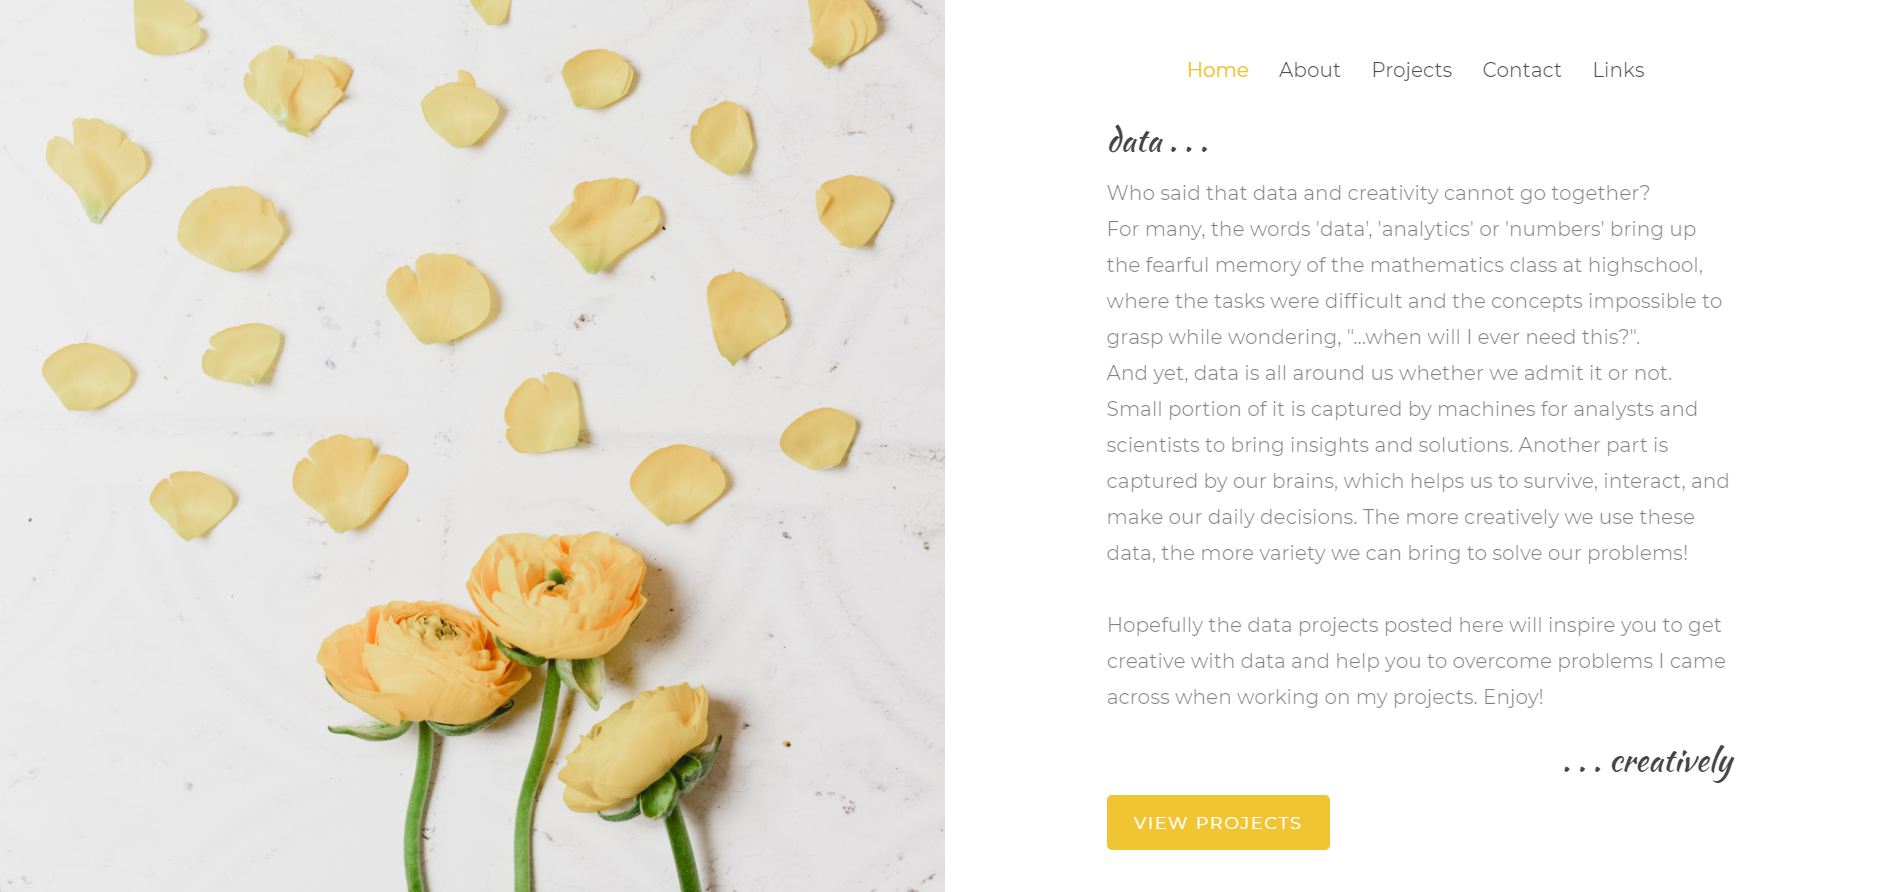
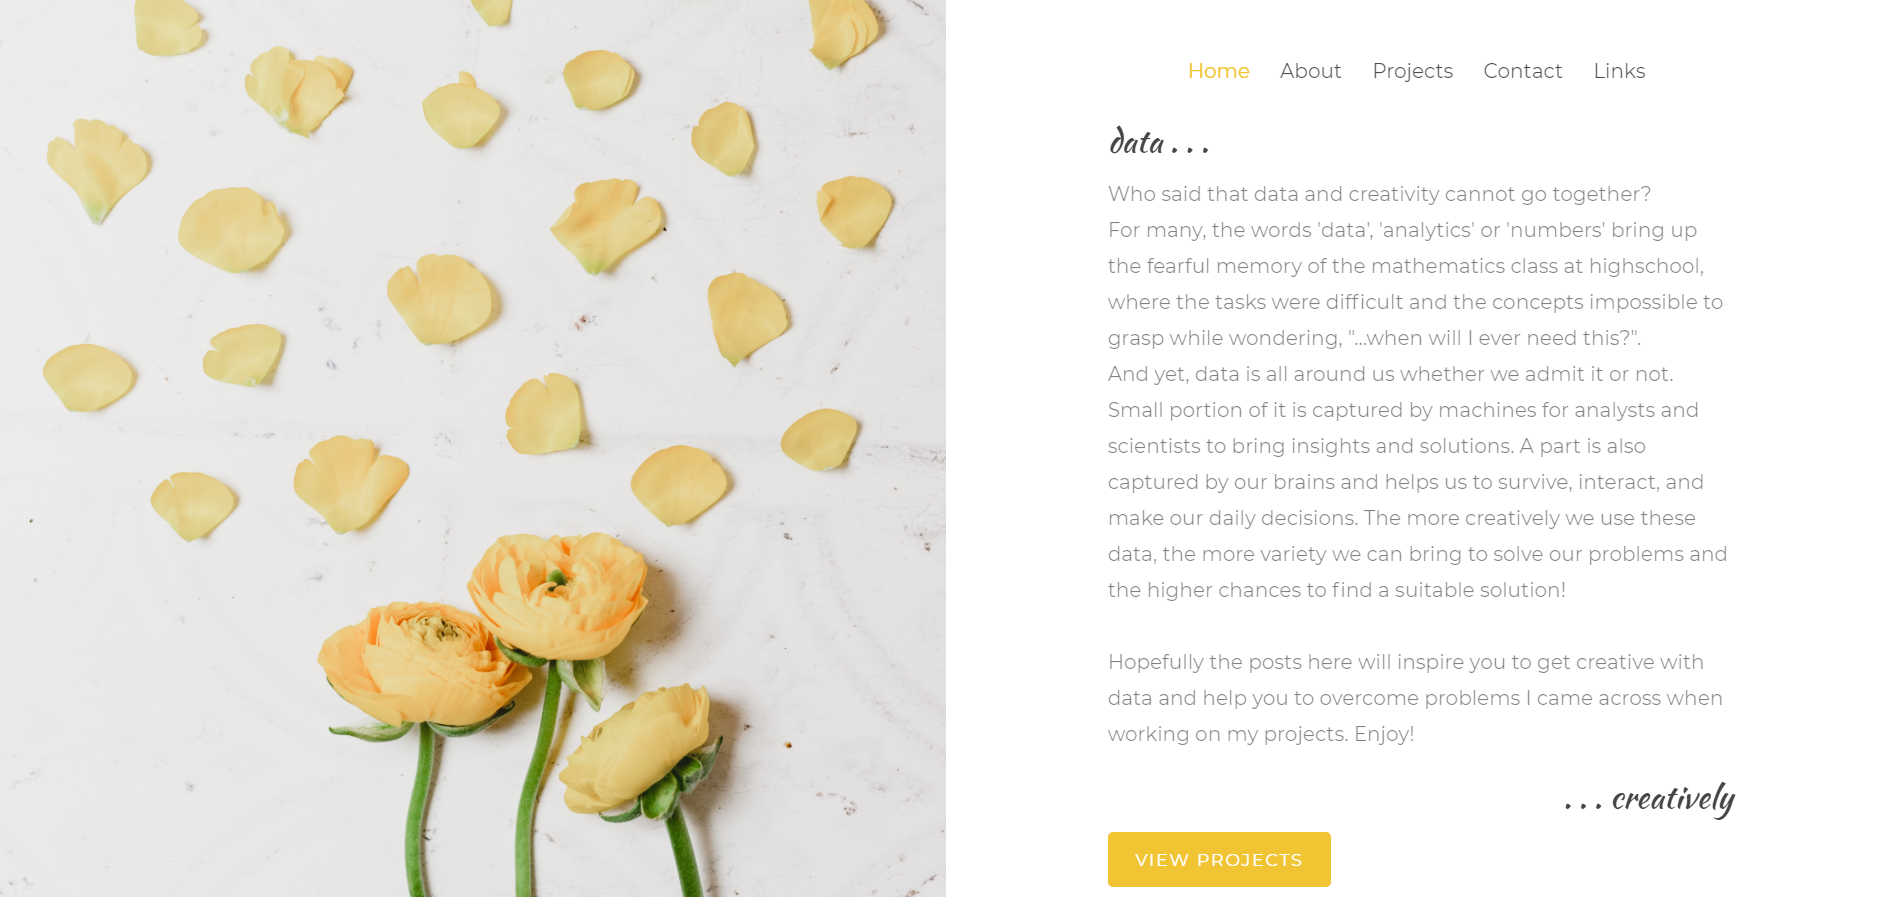
text update

diff --git a/index.html b/index.html
@@ -65,8 +65,8 @@
           <h1 class="heading" style="font-family: 'Kaushan Script', cursive">data . . .</h1>
           <p>Who said that data and creativity cannot go together?<br>
               For many, the words 'data', 'analytics' or 'numbers' bring up the fearful memory of the mathematics class at highschool, where the tasks were difficult and the concepts impossible to grasp while wondering, "...when will I ever need this?".<br>
-              And yet, data is all around us whether we admit it or not. Small portion of it is captured by machines for analysts and scientists to bring insights and solutions. Another part is captured by our brains, which helps us to survive, interact, and make our daily decisions. The more creatively we use these data, the more variety we can bring to solve our problems!<br><br>
-              Hopefully the data projects posted here will inspire you to get creative with data and help you to overcome problems I came across when working on my projects.
+              And yet, data is all around us whether we admit it or not. Small portion of it is captured by machines for analysts and scientists to bring insights and solutions. A part is also captured by our brains and helps us to survive, interact, and make our daily decisions. The more creatively we use these data, the more variety we can bring to solve our problems and the higher chances to find a suitable solution!<br><br>
+              Hopefully the posts here will inspire you to get creative with data and help you to overcome problems I came across when working on my projects.
               Enjoy!</p>
           <h1 class="heading text-right" style="font-family: 'Kaushan Script', cursive">. . . creatively</h1>
           <p><a href="projects.html" class="btn btn-primary">view projects</a></p>
